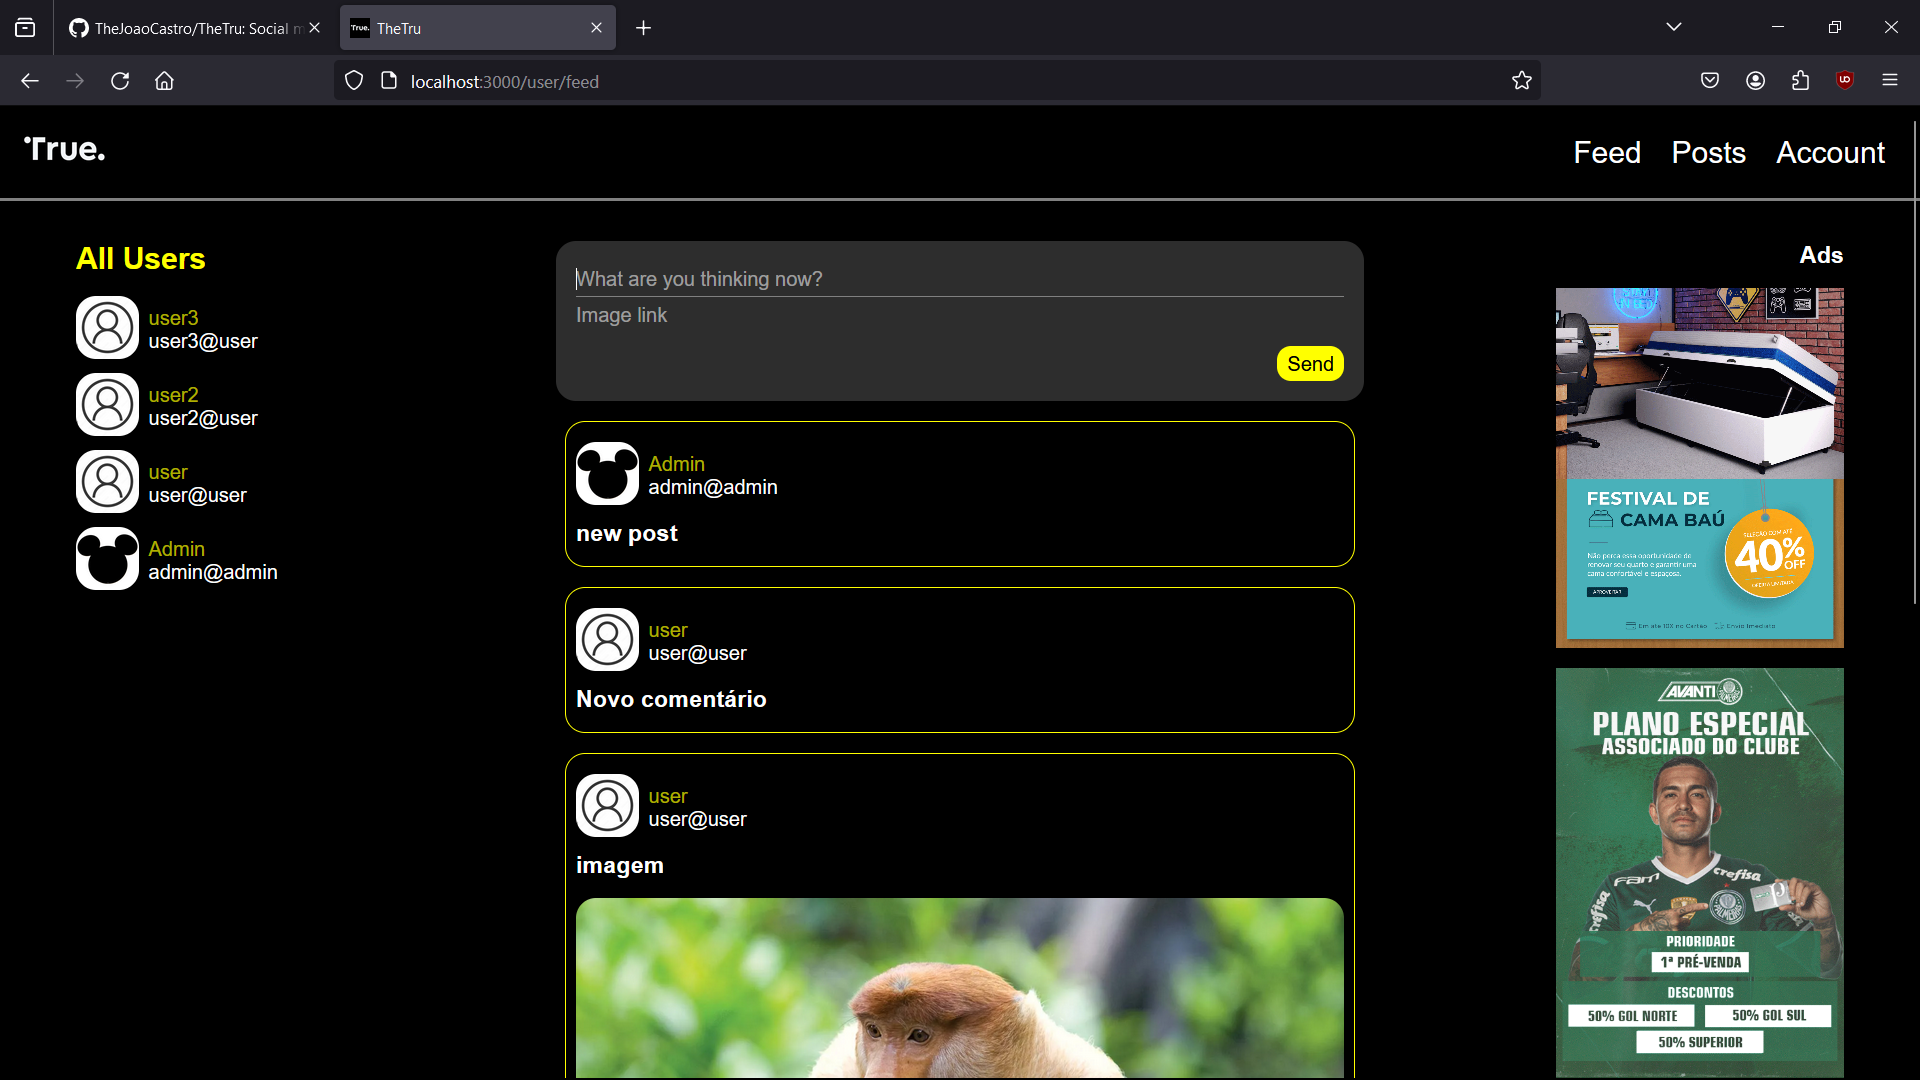
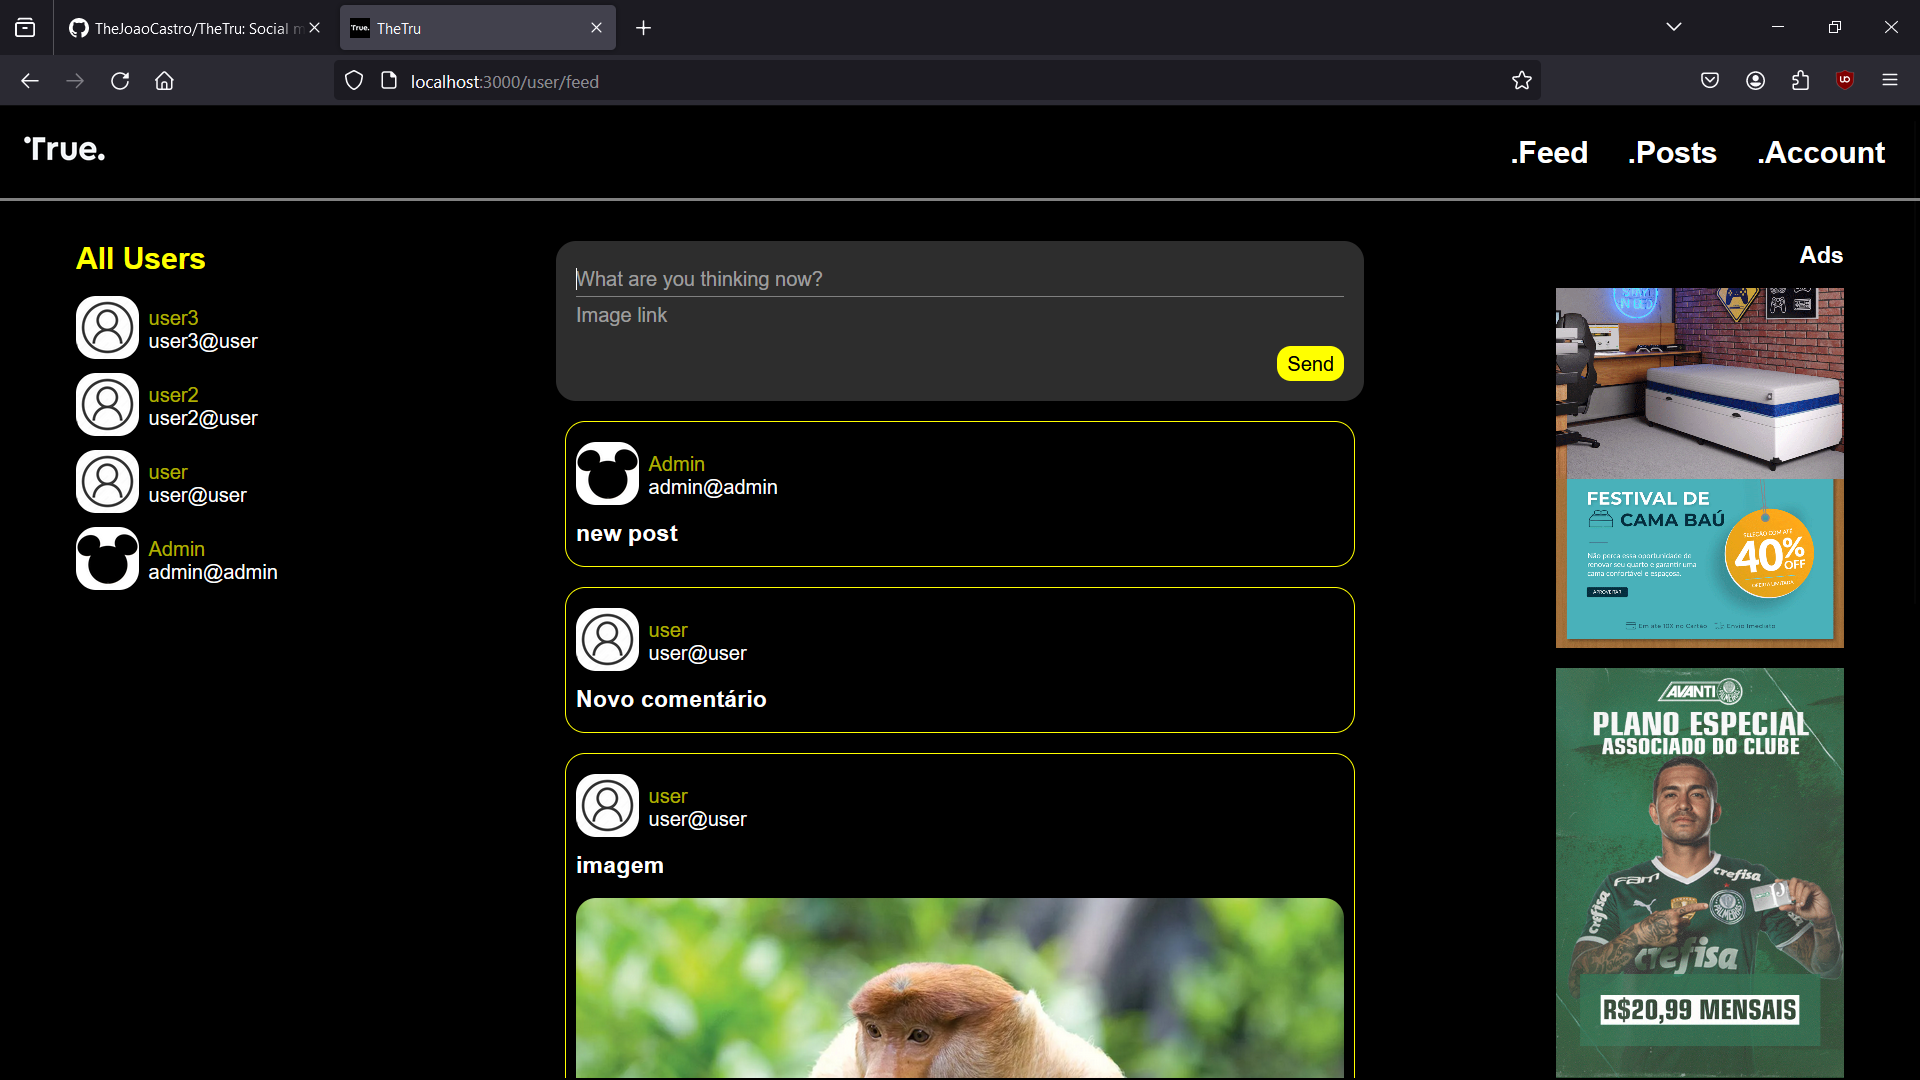
update images README

Changed region(s): [[0.8125, 0.8556, 0.9688, 1.0], [0.8125, 0.275, 0.9688, 0.4583], [0.7812, 0.1222, 1.0, 0.1528]]

diff --git a/public/css/user.css b/public/css/user.css
@@ -32,6 +32,8 @@ body {
     font-size: 1.5em;
     margin: 0 .5em;
     transition: .4s;
+    padding-left: .3em;
+    font-weight: bold;
 }
 
 .navButton:hover {
